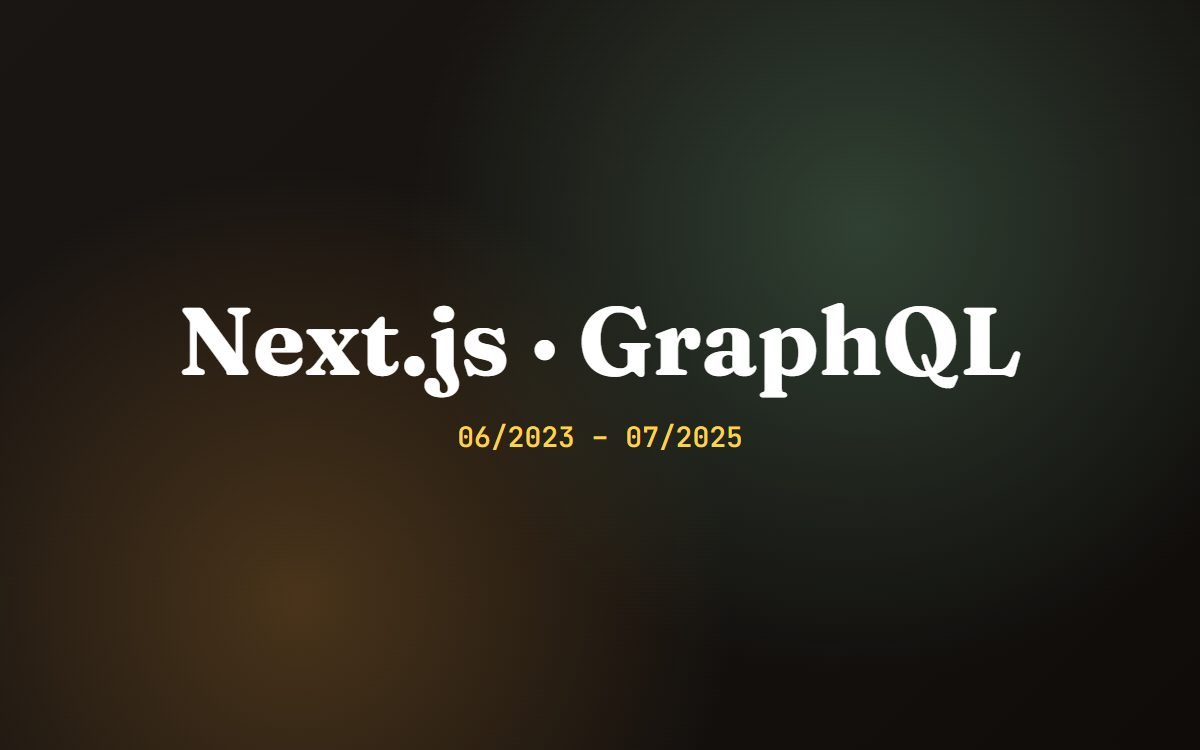
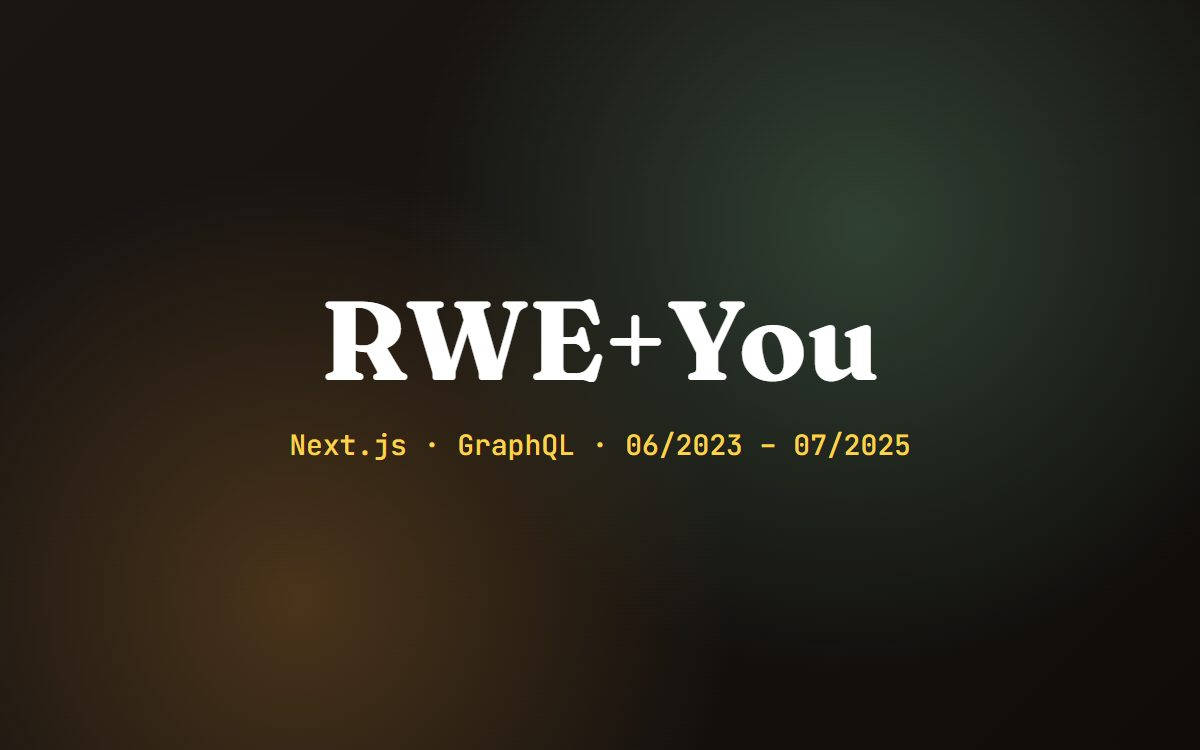
feat(content): name RWE+You, Move37 and ZF Vorsorge as public references
Melting Experience publicly lists these products and clients in its own case
studies (RWE+You for RWE, Move37 and the ZF Vorsorge app for Decadia), so the
project headings now use them:
- "RWE+You: Mobile Onboarding App and HR Dashboard", client RWE
- "Pension Portals Move37 and ZF Vorsorge", client Decadia
The admin tool stays unnamed (no public reference). The NDA note now reads
"Client project, internal details under NDA". Preview images 2 and 3 show the
product names.

Changed region(s): [[0.1542, 0.3987, 0.8633, 0.552], [0.37, 0.552, 0.7708, 0.6133], [0.2158, 0.5827, 0.3392, 0.6133]]

diff --git a/src/data/portfolioData.ts b/src/data/portfolioData.ts
@@ -243,7 +243,7 @@ export const uiTranslations: Record<Language, {
       inquiryButton: "Projekt anfragen",
       liveButton: "Live ansehen",
       codeButton: "Code auf GitHub",
-      ndaNotice: "Kundenprojekt unter NDA, Details im Gespräch"
+      ndaNotice: "Kundenprojekt, interne Details unter NDA"
     },
     passions: {
       badge: "Persönlichkeit & Werte",
@@ -350,7 +350,7 @@ export const uiTranslations: Record<Language, {
       inquiryButton: "Ask about this project",
       liveButton: "View live",
       codeButton: "Code on GitHub",
-      ndaNotice: "Client project under NDA, details on request"
+      ndaNotice: "Client project, internal details under NDA"
     },
     passions: {
       badge: "Personality & Values",
@@ -584,11 +584,11 @@ export const portfolioDataDE: PortfolioData = {
     },
     {
       id: "mobile-onboarding-hr",
-      title: "Mobile Onboarding-Anwendung und HR-Dashboard",
+      title: "RWE+You: Mobile Onboarding-App und HR-Dashboard",
       category: "Greenfield Mobile & Web",
       period: "06/2023 - 07/2025",
       role: "Frontend Engineer",
-      client: "Energiekonzern",
+      client: "RWE",
       image: "/assets/proj2.jpg",
       shortDesc: "Greenfield-Architektur mit Next.js: Mobile Onboarding-App für neue Mitarbeiter gepaart mit einem datenintensiven HR-Dashboard, Auth.js, Zustand und GraphQL.",
       fullDesc: "Ganzheitliche Konzeption und Implementierung einer mobilen Mitarbeiter-Onboarding-App sowie des dazugehörigen Administrations-Dashboards von Grund auf (Greenfield) für einen großen Energiekonzern unter Einsatz von Next.js, React und TypeScript im Nx-Monorepo. Aufbau einer intuitiven, fehlertoleranten Benutzerführung mit typsicherer Validierung komplexer Formulare mittels React Hook Form und Zod. Implementierung eines schlanken, reaktiven globalen State Managements via Zustand und Integration sicherer Login- und Rollenstrukturen über Auth.js. Schnittstellendesign und optimierter Datenabruf via GraphQL in enger Abstimmung mit dem Backend-Team sowie partnerschaftliche UX-Umsetzung mit Product Ownern.",
@@ -609,11 +609,11 @@ export const portfolioDataDE: PortfolioData = {
     },
     {
       id: "vorsorgeportale",
-      title: "Vorsorgeportale für betriebliche Altersvorsorge",
+      title: "Vorsorgeportale Move37 und ZF Vorsorge",
       category: "Kundenportal",
       period: "08/2023 - 04/2026",
       role: "Frontend Engineer",
-      client: "Kundenportale zur betrieblichen Altersvorsorge",
+      client: "Decadia · Kundenportale zur betrieblichen Altersvorsorge",
       image: "/assets/proj3.jpg",
       shortDesc: "Fortlaufende Weiterentwicklung zweier hochfrequentierter Kundenportale: Modulare UI/UX-Modernisierung hin zu barrierearmen, voll responsiven Komponenten.",
       fullDesc: "Fortlaufende Betreuung, Skalierung und funktionale Erweiterung von zwei geschäftskritischen, hochfrequentierten Kundenanwendungen zur betrieblichen Altersvorsorge. Überarbeitung bestehender Frontend-Strukturen auf React-Basis hin zu barrierearmen, voll responsiven und modularen Komponenten. Technische Ausgestaltung neuer Fachmodule von der initialen Stakeholder-Abstimmung bis zum stabilen Produktivgang im agilen Scrum-Setup.",
@@ -910,11 +910,11 @@ export const portfolioDataEN: PortfolioData = {
     },
     {
       id: "mobile-onboarding-hr",
-      title: "Mobile Onboarding App and HR Dashboard",
+      title: "RWE+You: Mobile Onboarding App and HR Dashboard",
       category: "Greenfield Mobile & Web",
       period: "06/2023 - 07/2025",
       role: "Frontend Engineer",
-      client: "Leading Energy Corporation",
+      client: "RWE",
       image: "/assets/proj2.jpg",
       shortDesc: "Greenfield architecture with Next.js: Mobile onboarding app for new hires paired with a data-intensive HR administration dashboard, Auth.js, Zustand, and GraphQL.",
       fullDesc: "Holistic greenfield conception and development of an employee onboarding mobile app and companion administrative dashboard from scratch for a major energy corporation using Next.js, React, and TypeScript within an Nx monorepo. Built an intuitive, fault-tolerant user journey with strict type-safe form validation using React Hook Form and Zod. Established lean reactive global state with Zustand and integrated secure role-based login workflows via Auth.js. Designed and optimized GraphQL queries in close alignment with the backend team and product owners.",
@@ -935,11 +935,11 @@ export const portfolioDataEN: PortfolioData = {
     },
     {
       id: "vorsorgeportale",
-      title: "Customer Portals for Company Pensions",
+      title: "Pension Portals Move37 and ZF Vorsorge",
       category: "Customer Portal",
       period: "08/2023 - 04/2026",
       role: "Frontend Engineer",
-      client: "Customer Portals for Corporate Pension Schemes",
+      client: "Decadia · Customer portals for company pensions",
       image: "/assets/proj3.jpg",
       shortDesc: "Continuous scaling and modular UI/UX modernization of two high-traffic customer portals toward accessible, fully responsive components.",
       fullDesc: "Continuous evolution, scaling, and feature expansion of two business-critical customer portals for company pension management. Refactored existing React frontend structures into accessible (a11y-compliant), fully responsive, and modular components. Took technical ownership of new functional modules from initial stakeholder grooming through to stable production releases in an agile Scrum team.",
